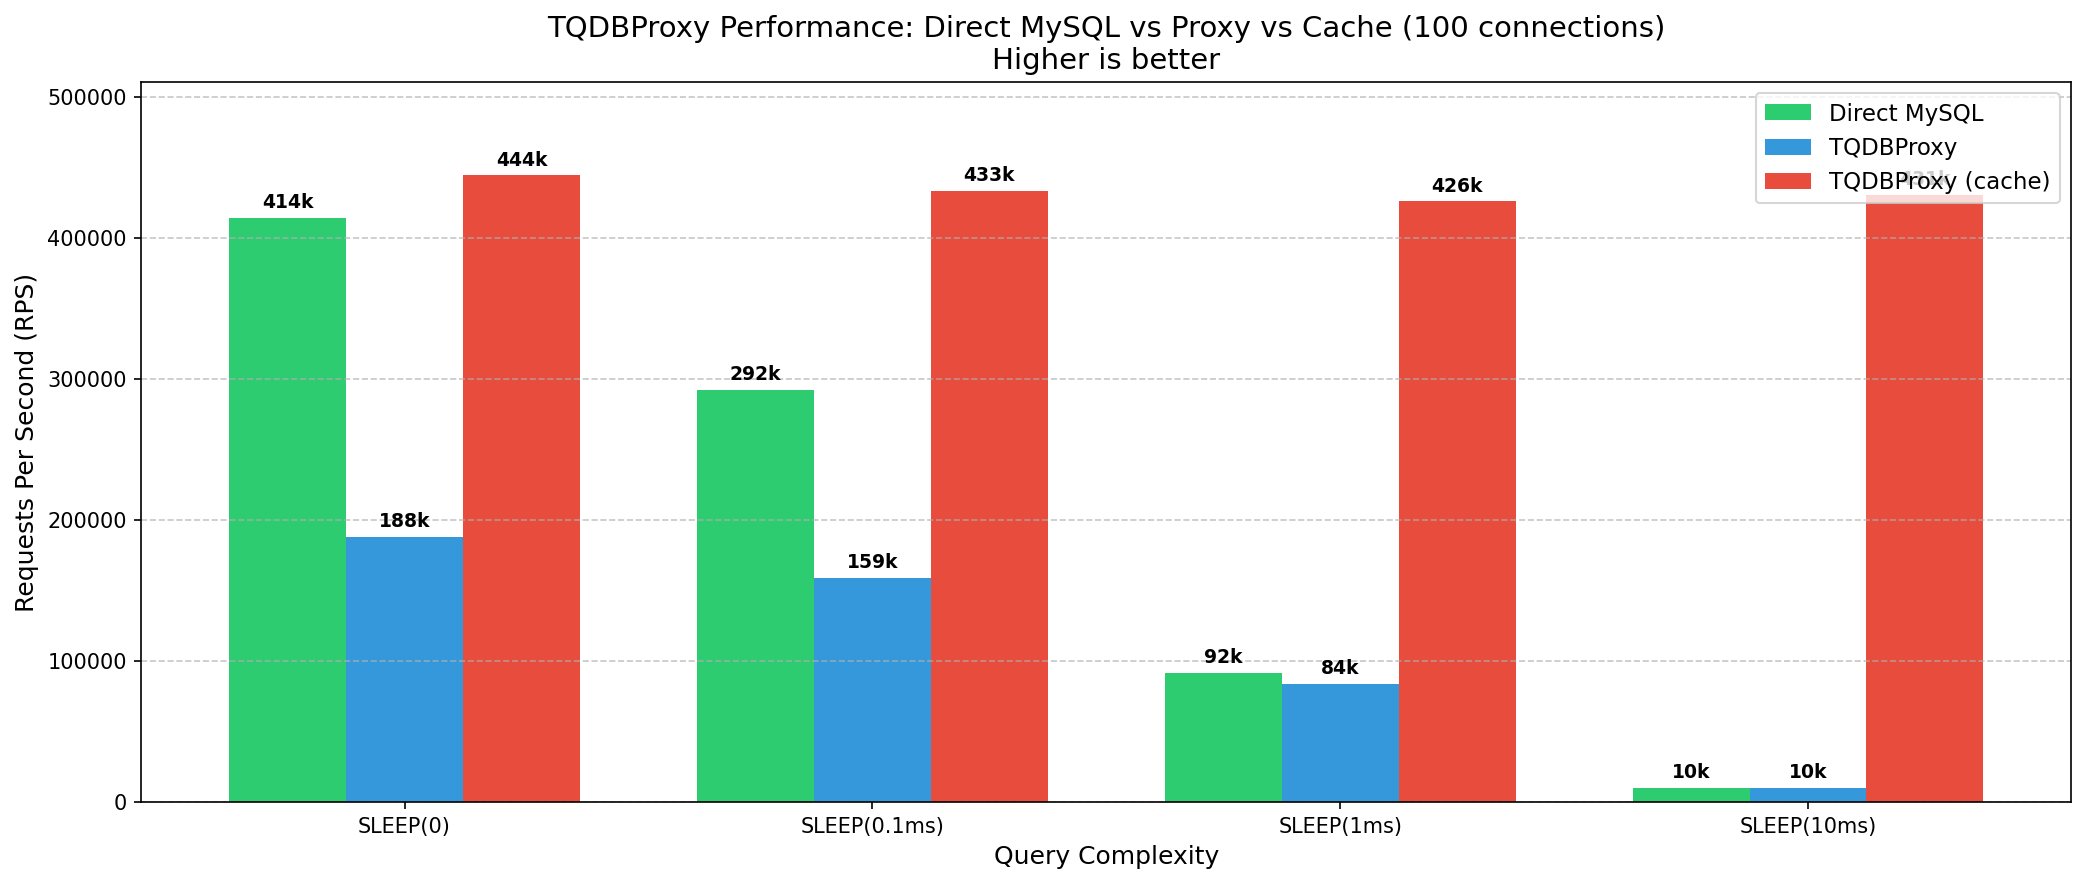
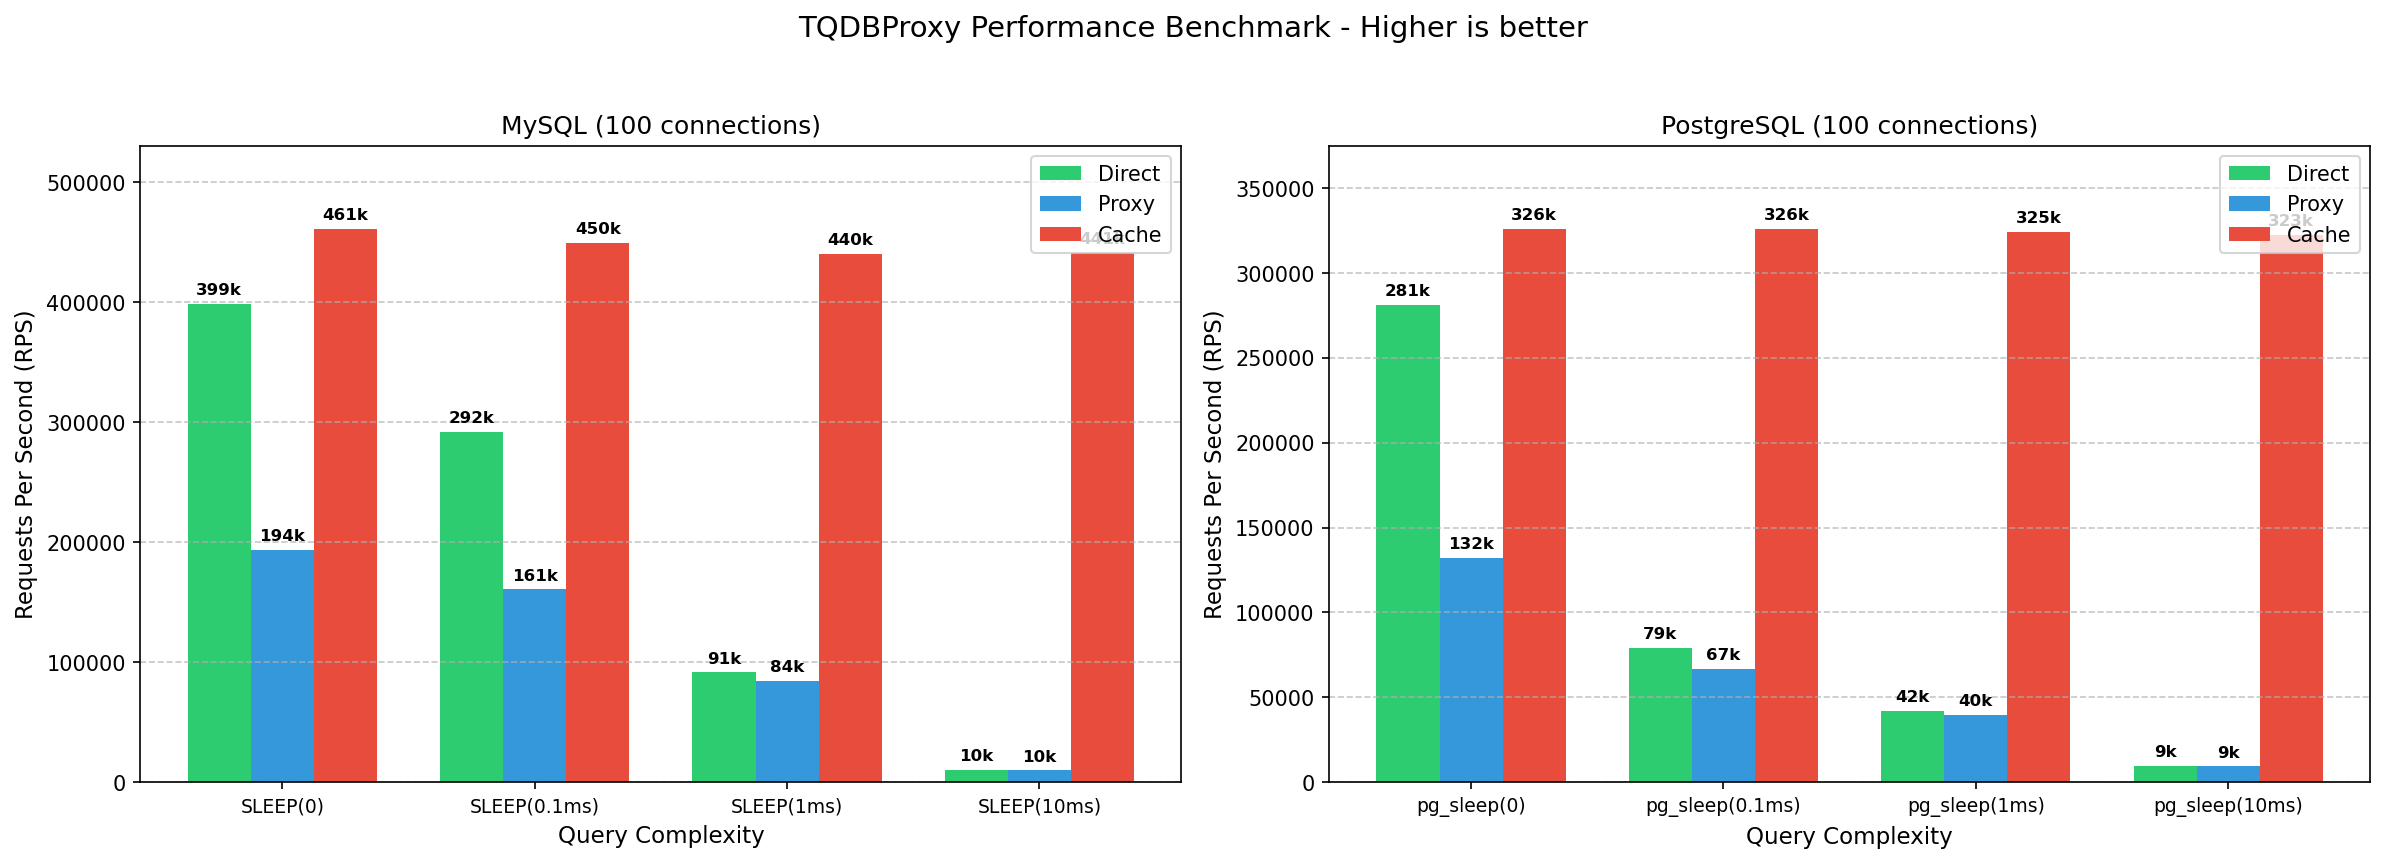
update

diff --git a/README.md b/README.md
@@ -11,6 +11,12 @@ A high-performance MySQL and PostgreSQL proxy with caching, read replica, metric
 - **Transaction Support**: Full BEGIN/COMMIT/ROLLBACK support
 - **Interactive Mode**: Full MySQL client support without restrictions
 
+## Performance
+
+![TQDBProxy Benchmark](benchmarks/proxy/proxy_benchmark.png)
+
+Cache hits are as fast as empty queries with 100 connections. Proxy overhead is minimal for queries ≥1ms.
+
 ## Quick Start
 
 ```bash
